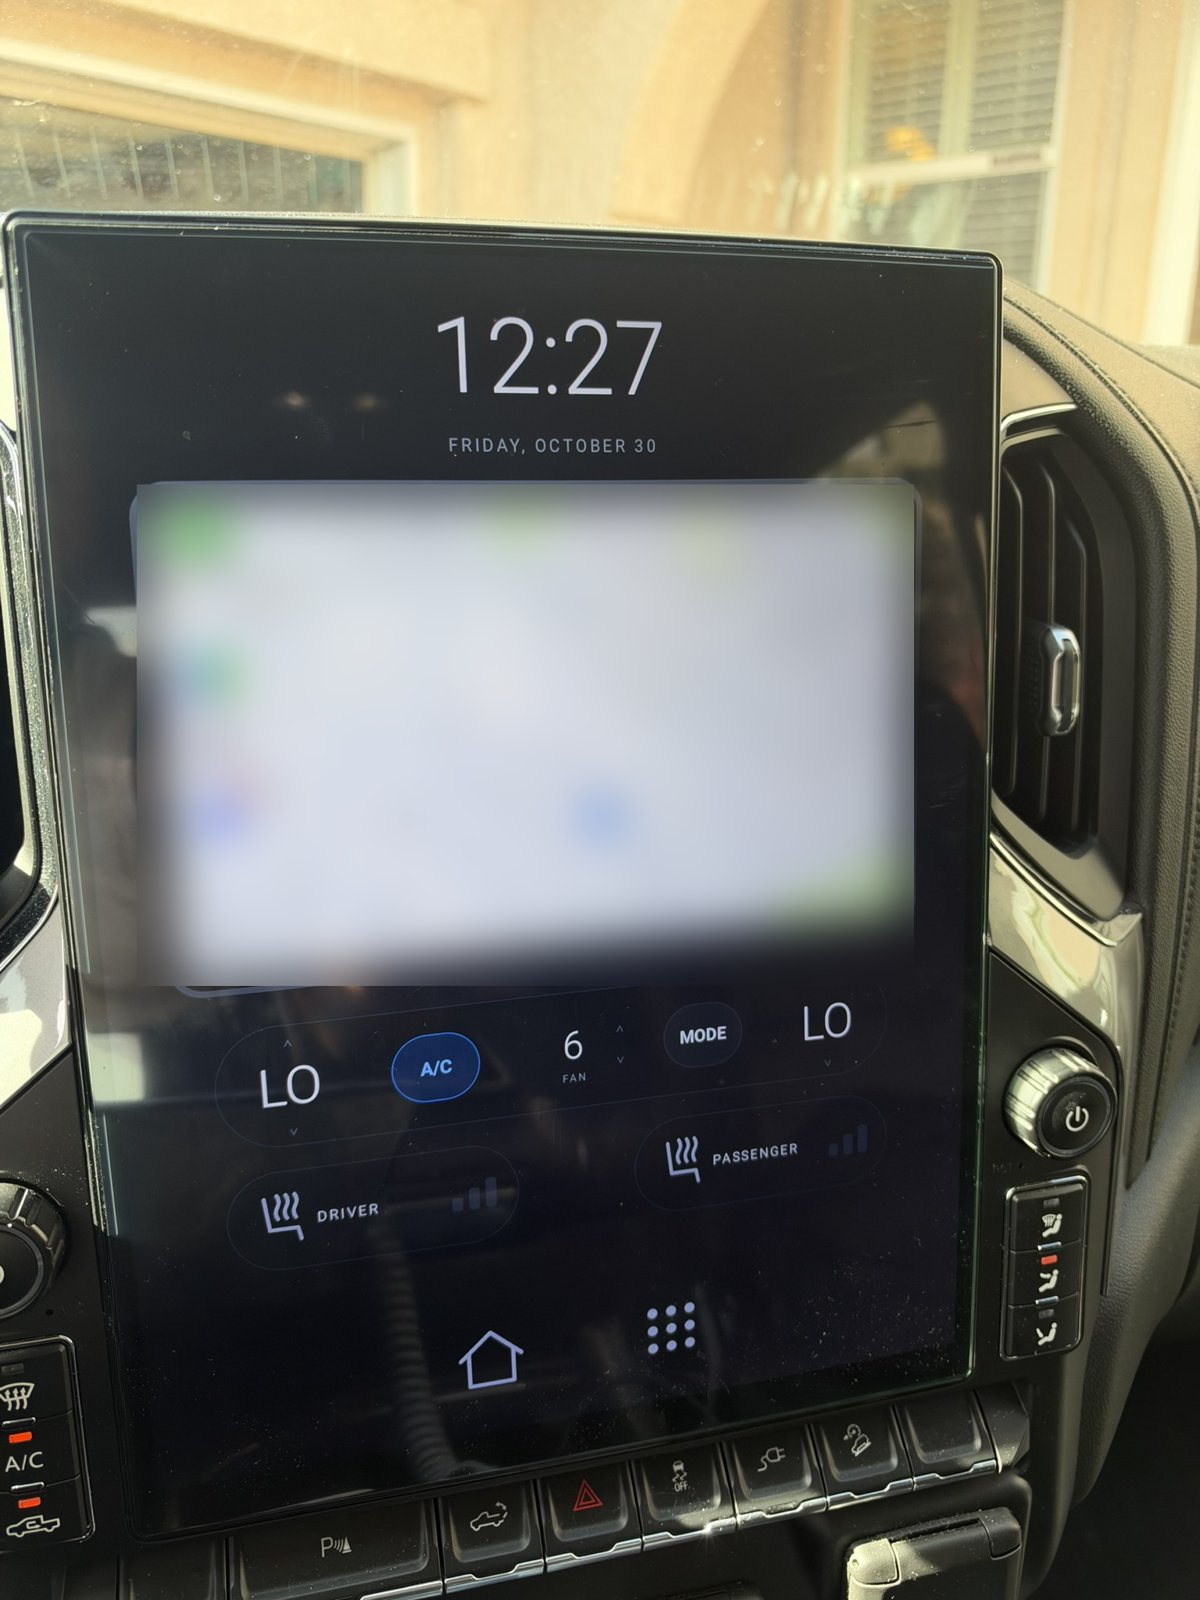
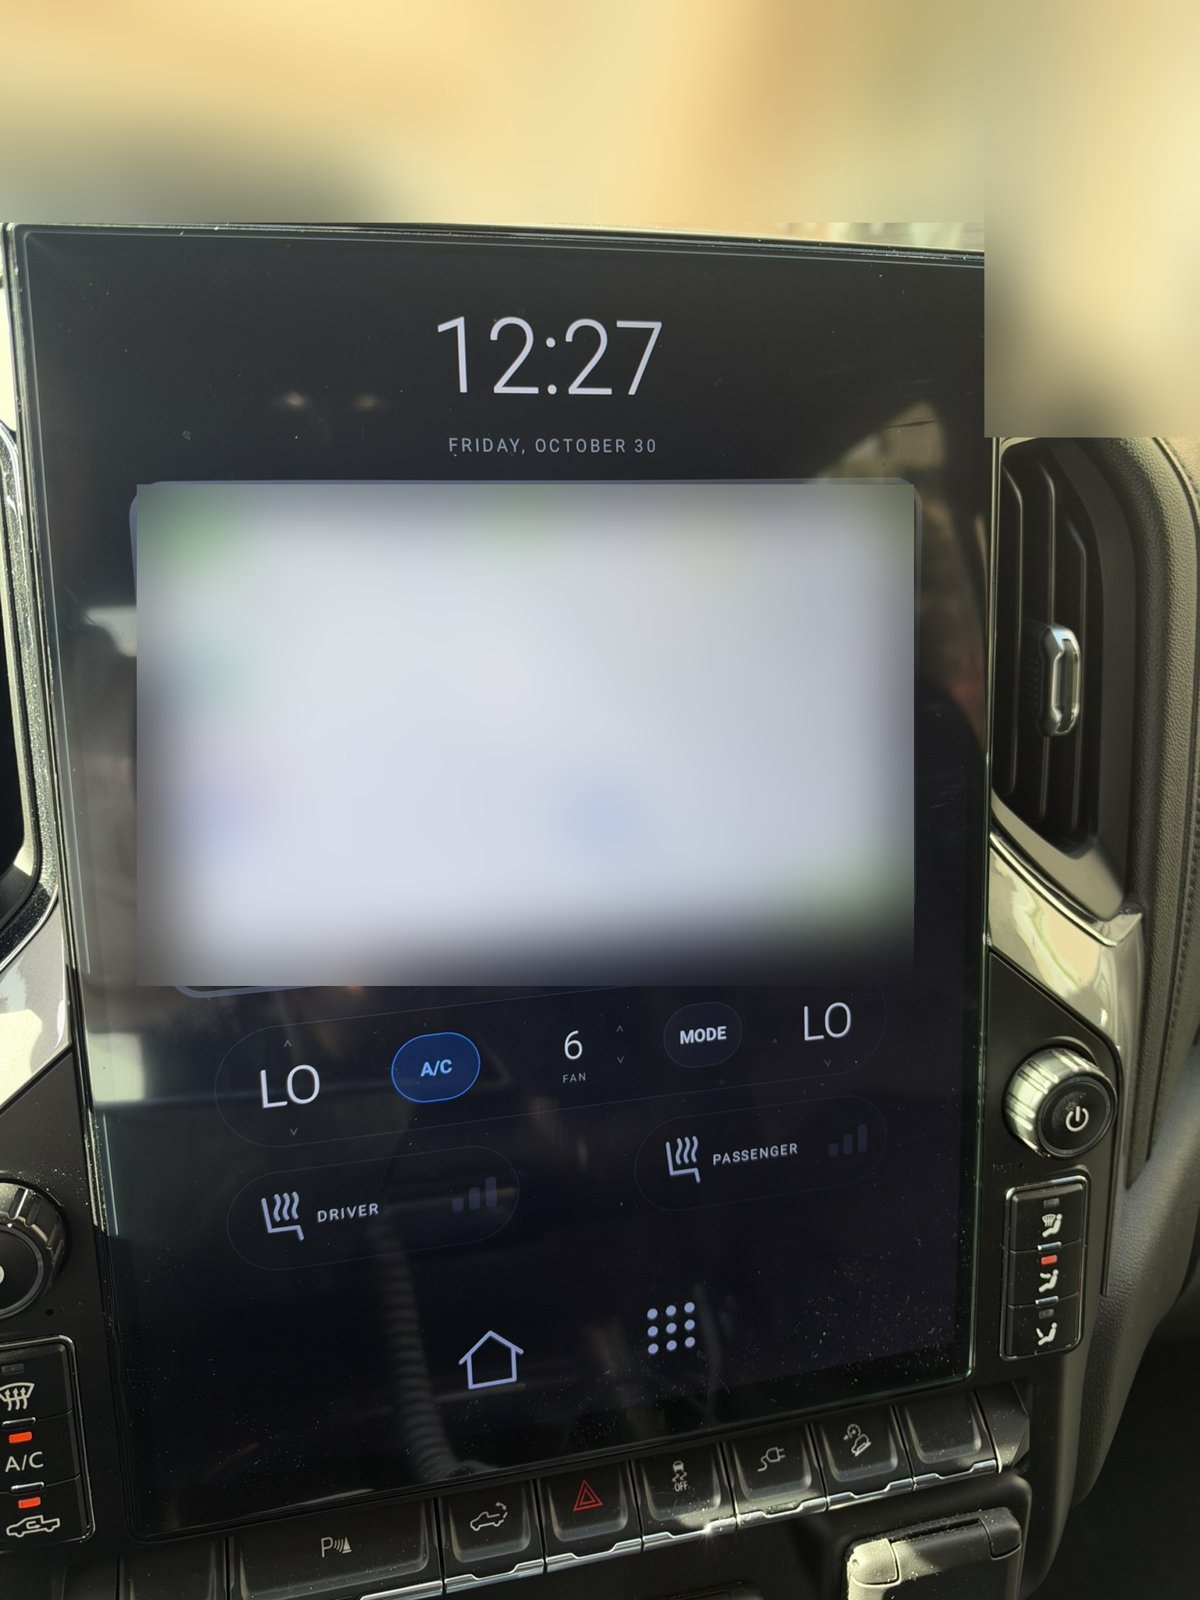
Harden for other units: survive a missing video library, gate car commands to CanType 16
- Catch the library load failure (an Error, not an Exception) and keep the dash running
- Send no climate, seat or touch commands on units other than CanType 16
- Safe receiver teardown, build warning when the video library is missing
- README: turn wireless debugging off after install, fuller trademark note
- Ignore build outputs, signing keys, IDE files and vendor APKs
- Blur the background in the in-truck photos

Changed region(s): [[0.0, 0.0, 0.37, 0.1562], [0.6783, 0.0, 1.0, 0.2812], [0.6475, 0.0, 0.6783, 0.0312]]

diff --git a/app/src/main/java/com/jreid/truckdash/UnitCheck.kt b/app/src/main/java/com/jreid/truckdash/UnitCheck.kt
@@ -1,0 +1,27 @@
+package com.jreid.truckdash
+
+import android.content.Context
+import android.net.Uri
+import android.util.Log
+
+/**
+ * Car commands (climate, seat heat, touch) were worked out on a CanType 16 unit only. Other CanTypes
+ * use other code paths in the vendor Console app, with different key codes, so the dash stays
+ * display-only there. CanType is the vendor setting `Sys_CarType`, read the way the Console reads it.
+ */
+object UnitCheck {
+    const val TESTED_CAN_TYPE = 16
+    private val URI = Uri.parse("content://com.szchoiceway.eventcenter.SysVarProvider/SysVar")
+
+    /** null = could not be read; the check cannot judge then, so it does not block. */
+    fun allowsCarCommands(canType: Int?): Boolean = canType == null || canType == TESTED_CAN_TYPE
+
+    fun readCanType(context: Context): Int? = try {
+        context.contentResolver.query(URI, null, "keyname=?", arrayOf("Sys_CarType"), null)?.use { c ->
+            if (c.moveToFirst()) c.getString(c.getColumnIndexOrThrow("keyvalue"))?.trim()?.toIntOrNull() else null
+        }
+    } catch (e: Exception) {
+        Log.w("TruckDash", "could not read CanType", e)
+        null
+    }
+}

diff --git a/app/src/main/java/com/jreid/truckdash/video/Feed.kt b/app/src/main/java/com/jreid/truckdash/video/Feed.kt
@@ -22,6 +22,7 @@ class AisFeed(private val sendMcu: (ByteArray) -> Unit) : Feed {
 
     override fun open(surface: Surface): Boolean {
         if (opened) return true
+        if (!CameraUtils.AVAILABLE) return false
         restoreStockTiming()
         CameraUtils.setSurface(surface, 0)
         CameraUtils.setSensorOutputFmt(1)
@@ -39,7 +40,7 @@ class AisFeed(private val sendMcu: (ByteArray) -> Unit) : Feed {
         Log.i(TAG, "closeCamera")
     }
 
-    override fun frameCount(): Int = CameraUtils.getFrameCount(0)
+    override fun frameCount(): Int = if (opened) CameraUtils.getFrameCount(0) else 0
 
     /** Never a custom value: only the vendor's own string, so the bridge is exactly as the Console leaves it. */
     private fun restoreStockTiming() {

diff --git a/app/src/main/java/com/jreid/truckdash/mcu/McuSender.kt b/app/src/main/java/com/jreid/truckdash/mcu/McuSender.kt
@@ -4,9 +4,11 @@ import android.content.Context
 import android.content.Intent
 
 /** Sends frames to the vendor eventcenter, which forwards them to the canbus MCU. */
-class McuSender(private val context: Context) {
-    /** A canbus frame (2e ...), forwarded through the MCU. */
-    fun send(packet: ByteArray) = sendRaw(McuPackets.wrap(packet))
+class McuSender(private val context: Context, private val carCommandsAllowed: Boolean = true) {
+    /** A canbus frame (2e ...), forwarded through the MCU. Dropped on units the dash was not tested on. */
+    fun send(packet: ByteArray) {
+        if (carCommandsAllowed) sendRaw(McuPackets.wrap(packet))
+    }
 
     /** A command for the MCU itself, no canbus wrapper. */
     fun sendRaw(command: ByteArray) {

diff --git a/app/src/main/java/com/jreid/truckdash/DashActivity.kt b/app/src/main/java/com/jreid/truckdash/DashActivity.kt
@@ -55,7 +55,10 @@ class DashActivity : Activity() {
         val c = DashLayout.clockBlock
         val clock = ClockView(this)
         root.addView(clock, FrameLayout.LayoutParams(c.width, c.height).apply { leftMargin = c.left; topMargin = c.top })
-        val sender = McuSender(this)
+        val canType = UnitCheck.readCanType(this)
+        val carCommands = UnitCheck.allowsCarCommands(canType)
+        Log.i("TruckDash", "CanType=$canType car commands ${if (carCommands) "on" else "off (untested unit)"}")
+        val sender = McuSender(this, carCommands)
         val pressKey = { key: Int ->
             sender.send(McuPackets.climateKey(key, true))
             sender.send(McuPackets.climateKey(key, false))

diff --git a/app/src/test/java/com/jreid/truckdash/video/AisFeedTest.kt b/app/src/test/java/com/jreid/truckdash/video/AisFeedTest.kt
@@ -1,0 +1,21 @@
+package com.jreid.truckdash.video
+
+import android.graphics.SurfaceTexture
+import android.view.Surface
+import org.junit.Assert.assertEquals
+import org.junit.Assert.assertFalse
+import org.junit.Test
+
+/** The JVM has no vendor library, which is exactly the "built without libcamera_utils.so" case. */
+class AisFeedTest {
+    @Test fun missing_vendor_library_does_not_crash_open() {
+        val feed = AisFeed { }
+        assertFalse(feed.open(Surface(null as SurfaceTexture?)))
+    }
+
+    @Test fun missing_vendor_library_reports_no_frames_and_closes_quietly() {
+        val feed = AisFeed { }
+        assertEquals(0, feed.frameCount())
+        feed.close()
+    }
+}

diff --git a/app/src/test/java/com/jreid/truckdash/UnitCheckTest.kt b/app/src/test/java/com/jreid/truckdash/UnitCheckTest.kt
@@ -1,0 +1,15 @@
+package com.jreid.truckdash
+
+import org.junit.Assert.assertFalse
+import org.junit.Assert.assertTrue
+import org.junit.Test
+
+class UnitCheckTest {
+    @Test fun tested_can_type_is_allowed() = assertTrue(UnitCheck.allowsCarCommands(16))
+    @Test fun other_can_types_are_blocked() {
+        assertFalse(UnitCheck.allowsCarCommands(15))
+        assertFalse(UnitCheck.allowsCarCommands(0))
+    }
+    /** Unreadable means the vendor store did not answer; the check cannot judge, so it does not block. */
+    @Test fun unreadable_can_type_is_allowed() = assertTrue(UnitCheck.allowsCarCommands(null))
+}

diff --git a/app/src/main/java/com/jreid/truckdash/climate/ClimateMonitor.kt b/app/src/main/java/com/jreid/truckdash/climate/ClimateMonitor.kt
@@ -26,7 +26,10 @@ class ClimateMonitor(private val context: Context, private val onState: (Climate
     }
 
     fun start() { context.registerReceiver(receiver, IntentFilter().apply { addAction(AIR); addAction(OUTSIDE) }) }
-    fun stop() = context.unregisterReceiver(receiver)
+    /** Safe to call even if start() never ran or failed. */
+    fun stop() {
+        try { context.unregisterReceiver(receiver) } catch (_: IllegalArgumentException) {}
+    }
 
     /** Forget everything (ACC off); values come back with the next broadcasts. */
     fun reset() { store.reset(); onState(store.current()) }

diff --git a/app/src/main/java/com/jreid/truckdash/AccMonitor.kt b/app/src/main/java/com/jreid/truckdash/AccMonitor.kt
@@ -14,7 +14,10 @@ class AccMonitor(private val context: Context, private val onEvent: (StartupEven
     }
 
     fun start() { context.registerReceiver(receiver, IntentFilter(ACTION)) }
-    fun stop() = context.unregisterReceiver(receiver)
+    /** Safe to call even if start() never ran or failed. */
+    fun stop() {
+        try { context.unregisterReceiver(receiver) } catch (_: IllegalArgumentException) {}
+    }
 
     companion object {
         const val ACTION = "com.szchoiceway.eventcenter.EventUtils.ACTION_ACC_SLEEP_STATUS_EVT"

diff --git a/app/src/main/java/com/jreid/truckdash/video/ReverseMonitor.kt b/app/src/main/java/com/jreid/truckdash/video/ReverseMonitor.kt
@@ -16,7 +16,10 @@ class ReverseMonitor(private val context: Context, private val onChange: (Boolea
         onChange(readProperty() == "1")
     }
 
-    fun stop() = context.unregisterReceiver(receiver)
+    /** Safe to call even if start() never ran or failed. */
+    fun stop() {
+        try { context.unregisterReceiver(receiver) } catch (_: IllegalArgumentException) {}
+    }
 
     private fun readProperty(): String = try {
         Class.forName("android.os.SystemProperties")

diff --git a/app/src/main/java/com/szchoiceway/camera/CameraUtils.java b/app/src/main/java/com/szchoiceway/camera/CameraUtils.java
@@ -12,5 +12,18 @@ public class CameraUtils {
     static native void setDataCallBack(CameraCallBack callBack);
     public static native void setSurface(Surface surface, int index);
 
-    static { System.loadLibrary("camera_utils"); }
+    /** False when the vendor library is missing or fails to load; then no native method may be called. */
+    public static final boolean AVAILABLE;
+
+    static {
+        boolean ok;
+        try {
+            System.loadLibrary("camera_utils");
+            ok = true;
+        } catch (Throwable t) { // UnsatisfiedLinkError is an Error, not an Exception
+            android.util.Log.e("TruckDash", "video library unavailable; run scripts/dev.sh vendor-lib", t);
+            ok = false;
+        }
+        AVAILABLE = ok;
+    }
 }

diff --git a/README.md b/README.md
@@ -83,6 +83,13 @@ Studio), and the head unit on the same Wi-Fi.
    scripts/dev.sh install
    ```
 5. Turn the truck off, wait 10 seconds, and start it. The dash should come up with a live picture.
+6. **Turn Wireless debugging off** when you are done. Left on, anyone on the same network who can
+   pair with the unit gets a shell on it.
+
+On a unit whose CanType is not 16, the dash still shows the radio picture, clock and climate
+values, but sends no climate, seat or touch commands to the truck. See
+[Adapting to another unit or vehicle](docs/how-it-works.md#adapting-to-another-unit-or-vehicle) to
+enable them for yours (`UnitCheck.kt`).
 
 **Undo:** `scripts/dev.sh uninstall` (or `adb uninstall com.jreid.truckdash`). Home falls back to the
 stock launcher. The dash changes nothing else on the unit except the vendor auto-start slot, which
@@ -121,10 +128,13 @@ but the lower target keeps the vendor broadcasts and provider access simple).
 - The video window shows only what the factory radio shows. No phone-connected detection exists, so
   there is no "plug in your phone" prompt.
 - Touches on the video window are forwarded even when the picture is black.
+- If the vendor video library is missing, the video window stays black (the app logs why and keeps
+  running).
 - Climate controls on the bar can be tapped before the first state arrives from the truck.
 - Only tested on one unit and one truck.
 
 ## License
 
-MIT, see [LICENSE](LICENSE). Not affiliated with GM, Chevrolet, ZXW or Choiceway. Product names are
-used only to say what this works with.
+MIT, see [LICENSE](LICENSE). Not affiliated with or endorsed by GM, Chevrolet, GMC, Apple, Google,
+ZXW or Choiceway. Apple CarPlay, Android Auto, Silverado and Sierra are trademarks of their owners;
+names are used only to say what this works with.

diff --git a/docs/how-it-works.md b/docs/how-it-works.md
@@ -118,7 +118,9 @@ See [notes/bottom-bar.md](notes/bottom-bar.md).
 2. **Check the video path.** If your unit has no `/sys/lt8918/` it may use a different bridge
    (the Console checks `mIsLT9211Camera`). Copy whatever your Console does before `openCamera`.
 3. **Check the climate codes** by tapping each control in the Console app and reading the `SRX`
-   lines. Update `climate/ClimateKeys.kt`.
+   lines. Update `climate/ClimateKeys.kt`, then add your CanType to `UnitCheck.kt` (the vendor
+   setting `Sys_CarType`; the dash logs it at start as `TruckDash: CanType=..`). Until then the dash
+   sends no car commands on your unit.
 4. **Check the screen size.** Layout is in `ui/DashLayout.kt` (1440x1920 portrait). The video window
    position and size are there too.
 5. **Run the tests** (`scripts/dev.sh test`), install, and try every control with the truck parked.
